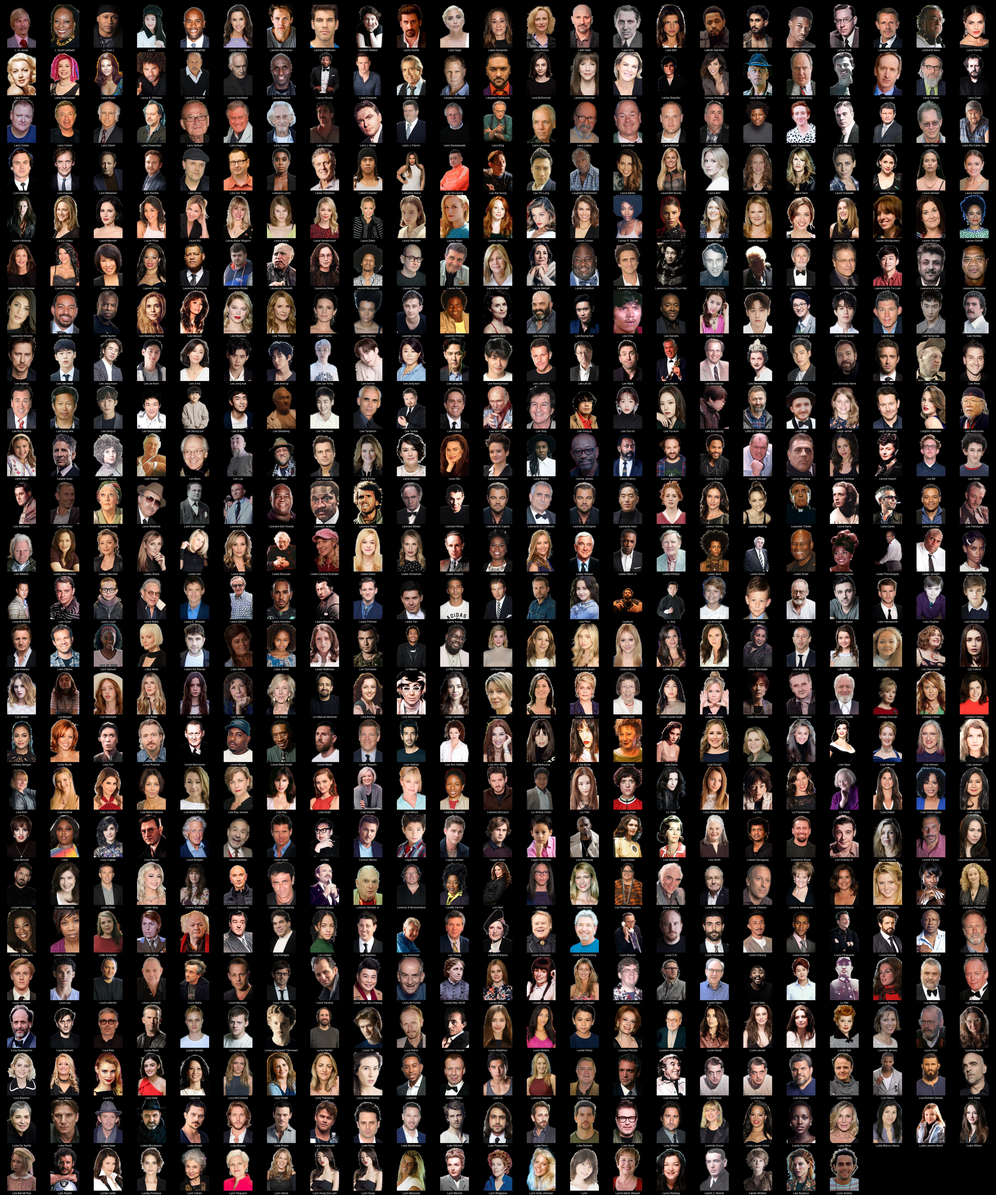
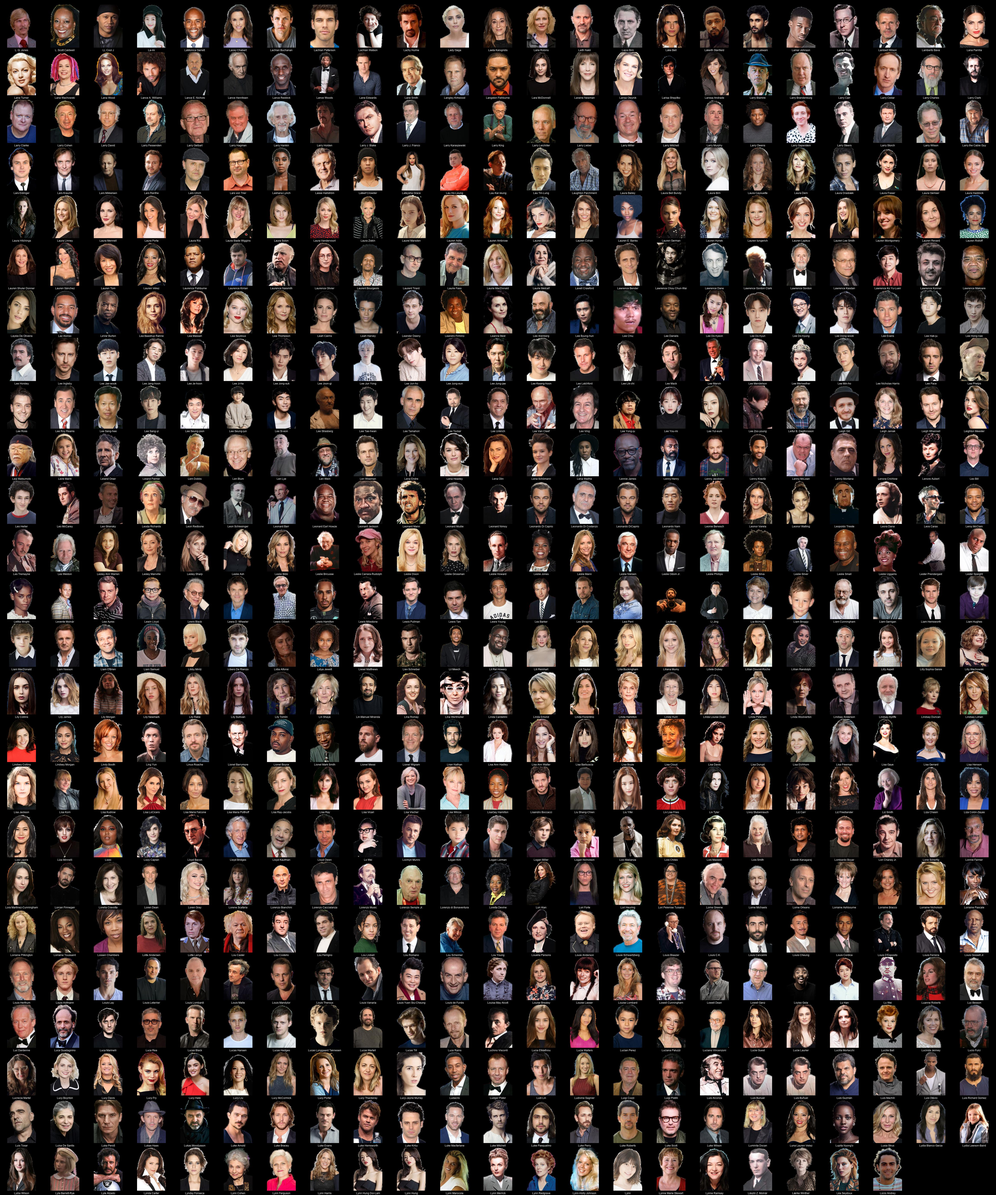
chore: sync posters & docs [transparent,diiivoycolor] - 2026-07-09 19:30

diff --git a/README.md b/README.md
@@ -1,4 +1,4 @@
-# Kometa People Images - Transparent (transparent) (13028 Images)
+# Kometa People Images - Transparent (transparent) (13032 Images)
 
 <details><summary><a href="'">' (1 Images)</a></summary>
 
@@ -1731,7 +1731,7 @@
 * [Børge Ring](https://raw.githubusercontent.com/Kometa-Team/People-Images-transparent/master/B/Images/B%C3%B8rge%20Ring.png)
 * [Břetislav Pojar](https://raw.githubusercontent.com/Kometa-Team/People-Images-transparent/master/B/Images/B%C5%99etislav%20Pojar.png)
 </details>
-<details><summary><a href="C">C (819 Images)</a></summary>
+<details><summary><a href="C">C (820 Images)</a></summary>
 
 * [C. Robert Cargill](https://raw.githubusercontent.com/Kometa-Team/People-Images-transparent/master/C/Images/C.%20Robert%20Cargill.png)
 * [C. S. Forester](https://raw.githubusercontent.com/Kometa-Team/People-Images-transparent/master/C/Images/C.%20S.%20Forester.png)
@@ -2108,6 +2108,7 @@
 * [Chloë Grace Moretz](https://raw.githubusercontent.com/Kometa-Team/People-Images-transparent/master/C/Images/Chlo%C3%AB%20Grace%20Moretz.png)
 * [Chloë Sevigny](https://raw.githubusercontent.com/Kometa-Team/People-Images-transparent/master/C/Images/Chlo%C3%AB%20Sevigny.png)
 * [Cho Ah-in](https://raw.githubusercontent.com/Kometa-Team/People-Images-transparent/master/C/Images/Cho%20Ah-in.png)
+* [Cho Han-cheul](https://raw.githubusercontent.com/Kometa-Team/People-Images-transparent/master/C/Images/Cho%20Han-cheul.png)
 * [Choi Dae-hoon](https://raw.githubusercontent.com/Kometa-Team/People-Images-transparent/master/C/Images/Choi%20Dae-hoon.png)
 * [Choi Min-sik](https://raw.githubusercontent.com/Kometa-Team/People-Images-transparent/master/C/Images/Choi%20Min-sik.png)
 * [Choi Sung-eun](https://raw.githubusercontent.com/Kometa-Team/People-Images-transparent/master/C/Images/Choi%20Sung-eun.png)
@@ -6589,7 +6590,7 @@
 * [Jürgen von der Lippe](https://raw.githubusercontent.com/Kometa-Team/People-Images-transparent/master/J/Images/J%C3%BCrgen%20von%20der%20Lippe.png)
 * [Jūzō Itami](https://raw.githubusercontent.com/Kometa-Team/People-Images-transparent/master/J/Images/J%C5%ABz%C5%8D%20Itami.png)
 </details>
-<details><summary><a href="K">K (645 Images)</a></summary>
+<details><summary><a href="K">K (647 Images)</a></summary>
 
 * [K Raghavendra Rao](https://raw.githubusercontent.com/Kometa-Team/People-Images-transparent/master/K/Images/K%20Raghavendra%20Rao.png)
 * [K. S. Ravikumar](https://raw.githubusercontent.com/Kometa-Team/People-Images-transparent/master/K/Images/K.%20S.%20Ravikumar.png)
@@ -7035,6 +7036,7 @@
 * [Kim Hong-sun](https://raw.githubusercontent.com/Kometa-Team/People-Images-transparent/master/K/Images/Kim%20Hong-sun.png)
 * [Kim Hyun-soo](https://raw.githubusercontent.com/Kometa-Team/People-Images-transparent/master/K/Images/Kim%20Hyun-soo.png)
 * [Kim Jae-bum](https://raw.githubusercontent.com/Kometa-Team/People-Images-transparent/master/K/Images/Kim%20Jae-bum.png)
+* [Kim Jae-uck](https://raw.githubusercontent.com/Kometa-Team/People-Images-transparent/master/K/Images/Kim%20Jae-uck.png)
 * [Kim Jang-hoon](https://raw.githubusercontent.com/Kometa-Team/People-Images-transparent/master/K/Images/Kim%20Jang-hoon.png)
 * [Kim Jee-woon](https://raw.githubusercontent.com/Kometa-Team/People-Images-transparent/master/K/Images/Kim%20Jee-woon.png)
 * [Kim Ji-hoon](https://raw.githubusercontent.com/Kometa-Team/People-Images-transparent/master/K/Images/Kim%20Ji-hoon.png)
@@ -7117,6 +7119,7 @@
 * [Klaus Kinski](https://raw.githubusercontent.com/Kometa-Team/People-Images-transparent/master/K/Images/Klaus%20Kinski.png)
 * [Klaus Maria Brandauer](https://raw.githubusercontent.com/Kometa-Team/People-Images-transparent/master/K/Images/Klaus%20Maria%20Brandauer.png)
 * [Knate Gwaltney](https://raw.githubusercontent.com/Kometa-Team/People-Images-transparent/master/K/Images/Knate%20Gwaltney.png)
+* [Ko Kyu-pil](https://raw.githubusercontent.com/Kometa-Team/People-Images-transparent/master/K/Images/Ko%20Kyu-pil.png)
 * [Ko Matsuo](https://raw.githubusercontent.com/Kometa-Team/People-Images-transparent/master/K/Images/Ko%20Matsuo.png)
 * [Ko Shibasaki](https://raw.githubusercontent.com/Kometa-Team/People-Images-transparent/master/K/Images/Ko%20Shibasaki.png)
 * [Kobayashi Yuusuke](https://raw.githubusercontent.com/Kometa-Team/People-Images-transparent/master/K/Images/Kobayashi%20Yuusuke.png)
@@ -7237,7 +7240,7 @@
 * [Kō Nakahira](https://raw.githubusercontent.com/Kometa-Team/People-Images-transparent/master/K/Images/K%C5%8D%20Nakahira.png)
 * [Kōgo Noda](https://raw.githubusercontent.com/Kometa-Team/People-Images-transparent/master/K/Images/K%C5%8Dgo%20Noda.png)
 </details>
-<details><summary><a href="L">L (572 Images)</a></summary>
+<details><summary><a href="L">L (573 Images)</a></summary>
 
 * [L. Q. Jones](https://raw.githubusercontent.com/Kometa-Team/People-Images-transparent/master/L/Images/L.%20Q.%20Jones.png)
 * [L. Scott Caldwell](https://raw.githubusercontent.com/Kometa-Team/People-Images-transparent/master/L/Images/L.%20Scott%20Caldwell.png)
@@ -7398,6 +7401,7 @@
 * [Lee Do-hyung](https://raw.githubusercontent.com/Kometa-Team/People-Images-transparent/master/L/Images/Lee%20Do-hyung.png)
 * [Lee Dong-wook](https://raw.githubusercontent.com/Kometa-Team/People-Images-transparent/master/L/Images/Lee%20Dong-wook.png)
 * [Lee Evans](https://raw.githubusercontent.com/Kometa-Team/People-Images-transparent/master/L/Images/Lee%20Evans.png)
+* [Lee Hak-ju](https://raw.githubusercontent.com/Kometa-Team/People-Images-transparent/master/L/Images/Lee%20Hak-ju.png)
 * [Lee Hong-nae](https://raw.githubusercontent.com/Kometa-Team/People-Images-transparent/master/L/Images/Lee%20Hong-nae.png)
 * [Lee Horsley](https://raw.githubusercontent.com/Kometa-Team/People-Images-transparent/master/L/Images/Lee%20Horsley.png)
 * [Lee Ingleby](https://raw.githubusercontent.com/Kometa-Team/People-Images-transparent/master/L/Images/Lee%20Ingleby.png)

diff --git a/K/README.md b/K/README.md
@@ -1,4 +1,4 @@
-# Kometa People Images - Transparent (transparent) - K (645 Images)
+# Kometa People Images - Transparent (transparent) - K (647 Images)
 ![Grid](grid.jpg)
 
 * [K Raghavendra Rao](https://raw.githubusercontent.com/Kometa-Team/People-Images-transparent/master/K/Images/K%20Raghavendra%20Rao.png)
@@ -445,6 +445,7 @@
 * [Kim Hong-sun](https://raw.githubusercontent.com/Kometa-Team/People-Images-transparent/master/K/Images/Kim%20Hong-sun.png)
 * [Kim Hyun-soo](https://raw.githubusercontent.com/Kometa-Team/People-Images-transparent/master/K/Images/Kim%20Hyun-soo.png)
 * [Kim Jae-bum](https://raw.githubusercontent.com/Kometa-Team/People-Images-transparent/master/K/Images/Kim%20Jae-bum.png)
+* [Kim Jae-uck](https://raw.githubusercontent.com/Kometa-Team/People-Images-transparent/master/K/Images/Kim%20Jae-uck.png)
 * [Kim Jang-hoon](https://raw.githubusercontent.com/Kometa-Team/People-Images-transparent/master/K/Images/Kim%20Jang-hoon.png)
 * [Kim Jee-woon](https://raw.githubusercontent.com/Kometa-Team/People-Images-transparent/master/K/Images/Kim%20Jee-woon.png)
 * [Kim Ji-hoon](https://raw.githubusercontent.com/Kometa-Team/People-Images-transparent/master/K/Images/Kim%20Ji-hoon.png)
@@ -527,6 +528,7 @@
 * [Klaus Kinski](https://raw.githubusercontent.com/Kometa-Team/People-Images-transparent/master/K/Images/Klaus%20Kinski.png)
 * [Klaus Maria Brandauer](https://raw.githubusercontent.com/Kometa-Team/People-Images-transparent/master/K/Images/Klaus%20Maria%20Brandauer.png)
 * [Knate Gwaltney](https://raw.githubusercontent.com/Kometa-Team/People-Images-transparent/master/K/Images/Knate%20Gwaltney.png)
+* [Ko Kyu-pil](https://raw.githubusercontent.com/Kometa-Team/People-Images-transparent/master/K/Images/Ko%20Kyu-pil.png)
 * [Ko Matsuo](https://raw.githubusercontent.com/Kometa-Team/People-Images-transparent/master/K/Images/Ko%20Matsuo.png)
 * [Ko Shibasaki](https://raw.githubusercontent.com/Kometa-Team/People-Images-transparent/master/K/Images/Ko%20Shibasaki.png)
 * [Kobayashi Yuusuke](https://raw.githubusercontent.com/Kometa-Team/People-Images-transparent/master/K/Images/Kobayashi%20Yuusuke.png)

diff --git a/C/README.md b/C/README.md
@@ -1,4 +1,4 @@
-# Kometa People Images - Transparent (transparent) - C (819 Images)
+# Kometa People Images - Transparent (transparent) - C (820 Images)
 ![Grid](grid.jpg)
 
 * [C. Robert Cargill](https://raw.githubusercontent.com/Kometa-Team/People-Images-transparent/master/C/Images/C.%20Robert%20Cargill.png)
@@ -376,6 +376,7 @@
 * [Chloë Grace Moretz](https://raw.githubusercontent.com/Kometa-Team/People-Images-transparent/master/C/Images/Chlo%C3%AB%20Grace%20Moretz.png)
 * [Chloë Sevigny](https://raw.githubusercontent.com/Kometa-Team/People-Images-transparent/master/C/Images/Chlo%C3%AB%20Sevigny.png)
 * [Cho Ah-in](https://raw.githubusercontent.com/Kometa-Team/People-Images-transparent/master/C/Images/Cho%20Ah-in.png)
+* [Cho Han-cheul](https://raw.githubusercontent.com/Kometa-Team/People-Images-transparent/master/C/Images/Cho%20Han-cheul.png)
 * [Choi Dae-hoon](https://raw.githubusercontent.com/Kometa-Team/People-Images-transparent/master/C/Images/Choi%20Dae-hoon.png)
 * [Choi Min-sik](https://raw.githubusercontent.com/Kometa-Team/People-Images-transparent/master/C/Images/Choi%20Min-sik.png)
 * [Choi Sung-eun](https://raw.githubusercontent.com/Kometa-Team/People-Images-transparent/master/C/Images/Choi%20Sung-eun.png)

diff --git a/L/README.md b/L/README.md
@@ -1,4 +1,4 @@
-# Kometa People Images - Transparent (transparent) - L (572 Images)
+# Kometa People Images - Transparent (transparent) - L (573 Images)
 ![Grid](grid.jpg)
 
 * [L. Q. Jones](https://raw.githubusercontent.com/Kometa-Team/People-Images-transparent/master/L/Images/L.%20Q.%20Jones.png)
@@ -160,6 +160,7 @@
 * [Lee Do-hyung](https://raw.githubusercontent.com/Kometa-Team/People-Images-transparent/master/L/Images/Lee%20Do-hyung.png)
 * [Lee Dong-wook](https://raw.githubusercontent.com/Kometa-Team/People-Images-transparent/master/L/Images/Lee%20Dong-wook.png)
 * [Lee Evans](https://raw.githubusercontent.com/Kometa-Team/People-Images-transparent/master/L/Images/Lee%20Evans.png)
+* [Lee Hak-ju](https://raw.githubusercontent.com/Kometa-Team/People-Images-transparent/master/L/Images/Lee%20Hak-ju.png)
 * [Lee Hong-nae](https://raw.githubusercontent.com/Kometa-Team/People-Images-transparent/master/L/Images/Lee%20Hong-nae.png)
 * [Lee Horsley](https://raw.githubusercontent.com/Kometa-Team/People-Images-transparent/master/L/Images/Lee%20Horsley.png)
 * [Lee Ingleby](https://raw.githubusercontent.com/Kometa-Team/People-Images-transparent/master/L/Images/Lee%20Ingleby.png)
